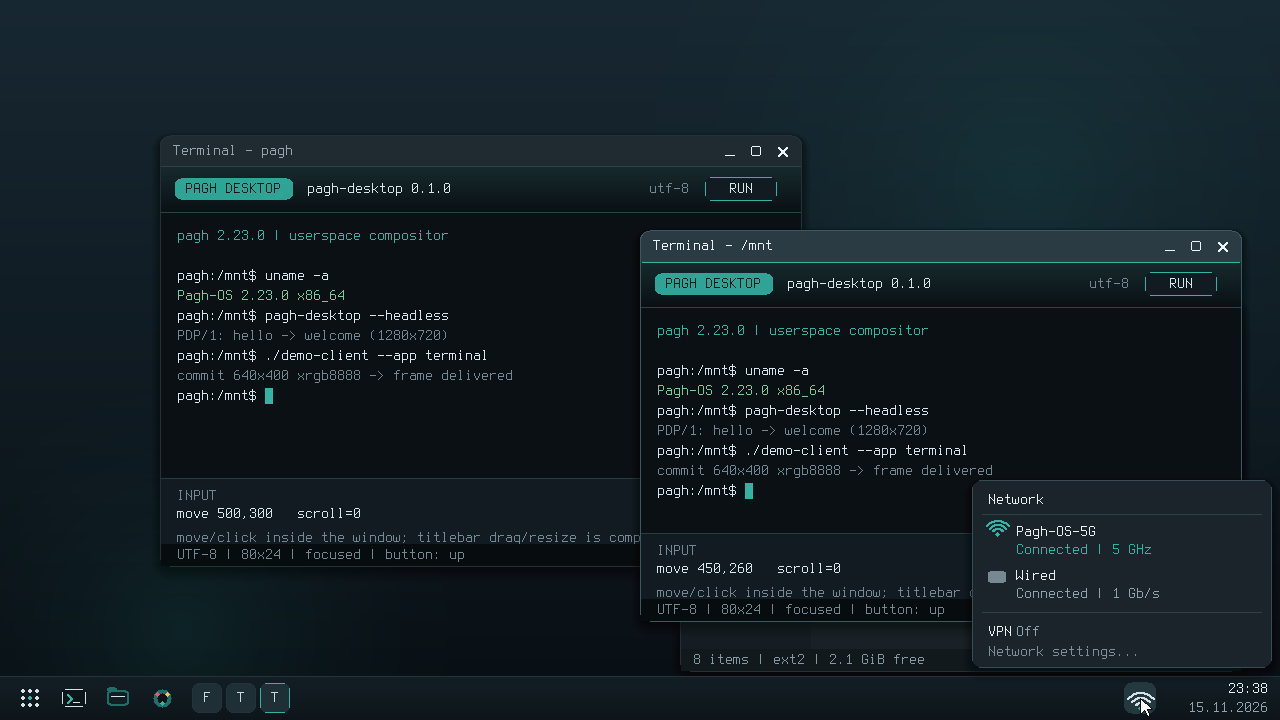
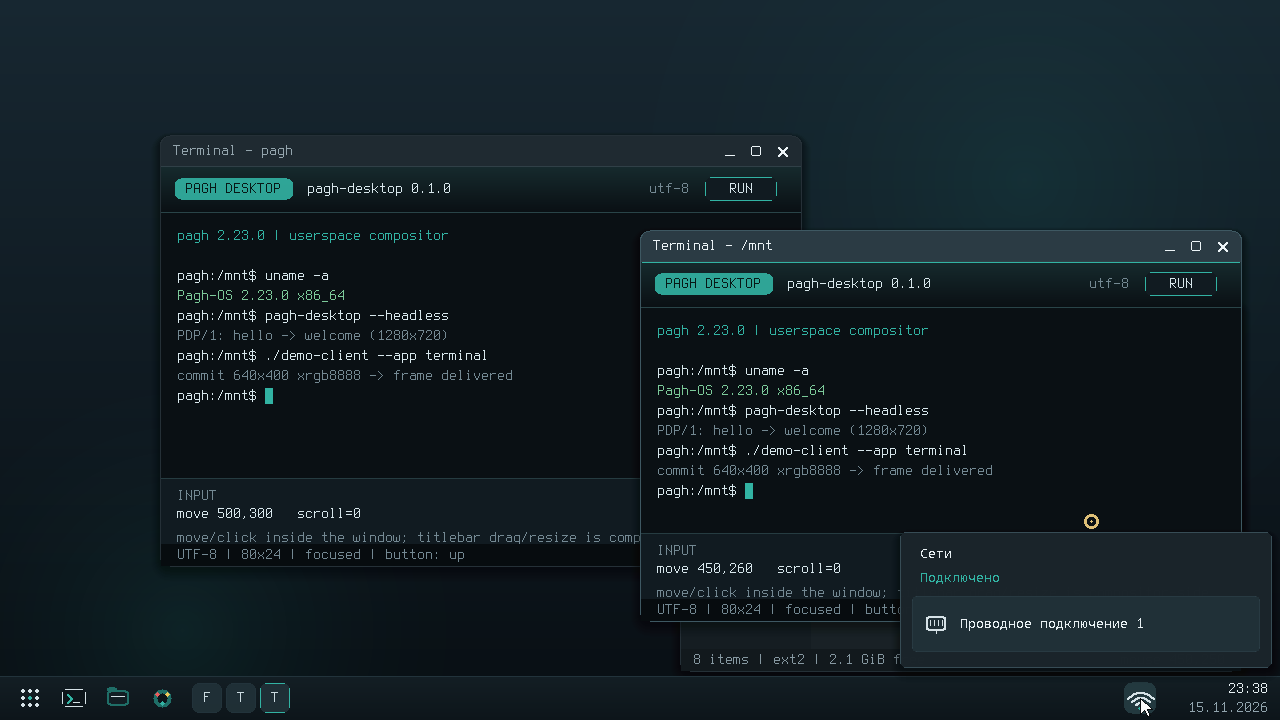
desktop: match the network flyout to the Win11 «Сети» reference
Старый флайаут рисовал выдуманную сеть: Pagh-OS-5G, «5 GHz», VPN/Off,
«Connected | 1 Gb/s» и «Network settings…». Ни одного из этих значений
ядро userspace не отдаёт, поэтому флайаут врал о состоянии машины.

Теперь показывается только то, что композитор действительно знает:
`Panel::network_online` — строка «Подключено»/«Отключено» и карточка
проводного подключения. IP и скорости не рисуются, пока ядро не отдаст
/proc/net/dev и SIOCGIFADDR/netlink; кнопки «Отключить» и chevron нет,
потому что в ядре нет пути управления линком (нет SIOCSIFFLAGS/netlink) —
нерабочая кнопка хуже её отсутствия.

Геометрия по референсу: ширина 372 px, скругление 6 px (календарь и меню
сохраняют 10 px), флайаут прижат к краю экрана и прилегает к панели с
зазором 8 px, снизу компактно (136 px). Строки русские — кириллические
глифы в 8×16-шрифте уже есть.

Тесты: unit — геометрия и отсутствие действия по клику в карточке;
headless-рендер — PNG online/offline в .cache/netfly и проверки пикселей
(акцент статуса, подложка карточки, приглушение при offline).

Changed region(s): [[0.6875, 0.7944, 0.875, 0.9167], [0.75, 0.7028, 0.9688, 0.7639], [0.9688, 0.6722, 1.0, 0.7333]]

diff --git a/rust-apps/pagh-desktop/src/compositor.rs b/rust-apps/pagh-desktop/src/compositor.rs
@@ -123,6 +123,17 @@ pub struct Flyout {
     pub rect: Rect,
 }
 
+/// Ширина сетевого флайаута: референс Win11 «Сети» — заметно шире меню календаря.
+const NETWORK_FLYOUT_WIDTH: i32 = 372;
+/// Высота сетевого флайаута: заголовок, статус и одна карточка подключения.
+const NETWORK_FLYOUT_HEIGHT: i32 = 136;
+/// Зазор между флайаутом, панелью и краем экрана.
+const FLYOUT_GAP: i32 = 8;
+/// Скругление сетевого флайаута: 6 px, компактнее меню и календаря.
+const NETWORK_FLYOUT_RADIUS: i32 = 6;
+/// Скругление меню/календаря — прежний вид, сетевой флайаут его не наследует.
+const MENU_RADIUS: i32 = 10;
+
 /// Ошибки операций с окнами.
 #[derive(Clone, Debug, PartialEq, Eq)]
 pub enum WindowError {
@@ -890,9 +901,15 @@ impl Compositor {
         let panel_top = panel::panel_rect(self.screen).y;
         match kind {
             FlyoutKind::Network => {
-                let network = panel::network_rect(self.screen);
+                // Правое ребро прижато к краю экрана, как у Win11: флайаут растёт
+                // влево от области уведомлений и прилегает к панели с зазором 8 px.
                 clamp_flyout(
-                    Rect::new(network.x - 60, panel_top - 188 - 8, 300, 188),
+                    Rect::new(
+                        self.screen.right() - FLYOUT_GAP - NETWORK_FLYOUT_WIDTH,
+                        panel_top - NETWORK_FLYOUT_HEIGHT - FLYOUT_GAP,
+                        NETWORK_FLYOUT_WIDTH,
+                        NETWORK_FLYOUT_HEIGHT,
+                    ),
                     self.screen,
                 )
             }
@@ -1845,73 +1862,79 @@ impl Compositor {
     }
 
     fn paint_flyout(&self, canvas: &mut Canvas, flyout: Flyout) {
-        canvas.shadow(flyout.rect, 10, 9, 18);
-        canvas.fill_rounded_rect(flyout.rect, 10, self.theme.menu_bg, 252);
-        canvas.stroke_rounded_rect(flyout.rect, 10, self.theme.menu_border, 255);
+        // У сетевого флайаута углы компактнее (референс 4–6 px), календарь
+        // сохраняет прежнее скругление меню.
+        let radius = match flyout.kind {
+            FlyoutKind::Network => NETWORK_FLYOUT_RADIUS,
+            FlyoutKind::Calendar => MENU_RADIUS,
+        };
+        canvas.shadow(flyout.rect, radius, 9, 18);
+        canvas.fill_rounded_rect(flyout.rect, radius, self.theme.menu_bg, 252);
+        canvas.stroke_rounded_rect(flyout.rect, radius, self.theme.menu_border, 255);
         match flyout.kind {
             FlyoutKind::Network => self.paint_network_flyout(canvas, flyout.rect),
             FlyoutKind::Calendar => self.paint_calendar_flyout(canvas, flyout.rect),
         }
     }
 
+    /// Сетевой флайаут: заголовок, честный статус связи и карточка подключения.
+    ///
+    /// Композитор знает о сети ровно одно поле — [`Panel::network_online`].
+    /// Ядро пока не отдаёт userspace ни имени интерфейса, ни IP, ни счётчиков
+    /// (`/proc/net/dev`, `SIOCGIFADDR`/netlink отсутствуют), поэтому IP и
+    /// скорости здесь не рисуются: выдуманные значения были бы обманом. По той
+    /// же причине нет кнопки «Отключить» и chevron — в ядре нет пути управления
+    /// линком (нет `SIOCSIFFLAGS`/netlink), а нерабочая кнопка хуже её
+    /// отсутствия. Когда источник данных появится, сюда добавятся строки IP,
+    /// скоростей и действий без переделки геометрии.
     fn paint_network_flyout(&self, canvas: &mut Canvas, rect: Rect) {
-        let x = rect.x + 16;
-        canvas.text(x, rect.y + 12, 1, self.theme.menu_text, "Network");
-        canvas.hline(
-            rect.x + 10,
-            rect.right() - 10,
-            rect.y + 34,
-            self.theme.separator,
-        );
-        let status = if self.panel.network_online {
-            "Connected | 5 GHz"
+        let x = rect.x + 20;
+        let online = self.panel.network_online;
+
+        canvas.text(x, rect.y + 14, 1, self.theme.menu_text, "Сети");
+
+        let status = if online {
+            "Подключено"
         } else {
-            "Disconnected"
+            "Отключено"
         };
-        let status_color = if self.panel.network_online {
+        let status_color = if online {
             self.theme.accent
+        } else {
+            self.theme.menu_text_dim
+        };
+        canvas.text(x, rect.y + 38, 1, status_color, status);
+
+        // Карточка подключения: подложка, проводная иконка и имя подключения.
+        // Настоящего имени интерфейса у композитора нет, поэтому подпись
+        // нейтральная («Проводное подключение 1» из референса), а не выдуманный
+        // SSID или модель адаптера.
+        let card = Rect::new(rect.x + 12, rect.y + 64, rect.w - 24, 56);
+        canvas.fill_rounded_rect(card, 4, self.theme.chip_bg, 255);
+        canvas.stroke_rounded_rect(card, 4, self.theme.menu_border, 90);
+
+        let icon_color = if online {
+            self.theme.panel_icon
         } else {
             self.theme.panel_icon_dim
         };
-        // Wi-Fi иконка.
-        let icon_center = Point::new(x + 9, rect.y + 54);
-        canvas.fill_circle(icon_center, 2, status_color, 255);
-        for radius in [6, 10, 14] {
-            canvas.arc(icon_center, radius, 218.0, 322.0, status_color, 2);
-        }
-        canvas.text(x + 28, rect.y + 44, 1, self.theme.menu_text, "Pagh-OS-5G");
-        canvas.text(x + 28, rect.y + 62, 1, status_color, status);
-
-        let wired_y = rect.y + 88;
-        canvas.fill_rounded_rect(
-            Rect::new(x, wired_y + 3, 18, 12),
-            2,
-            self.theme.panel_icon_dim,
-            255,
+        draw_wired_icon(
+            canvas,
+            Point::new(card.x + 24, card.center().y),
+            icon_color,
+            self.theme.chip_bg,
         );
-        canvas.text(x + 28, wired_y, 1, self.theme.menu_text, "Wired");
+        let label_color = if online {
+            self.theme.menu_text
+        } else {
+            self.theme.menu_text_dim
+        };
         canvas.text(
-            x + 28,
-            wired_y + 18,
+            card.x + 48,
+            card.center().y - 8,
             1,
-            self.theme.panel_text_dim,
-            "Connected | 1 Gb/s",
-        );
-
-        canvas.hline(
-            rect.x + 10,
-            rect.right() - 10,
-            rect.y + 132,
-            self.theme.separator,
-        );
-        canvas.text(x, rect.y + 144, 1, self.theme.menu_text, "VPN");
-        canvas.text(x + 28, rect.y + 144, 1, self.theme.panel_text_dim, "Off");
-        canvas.text(
-            x,
-            rect.bottom() - 24,
-            1,
-            self.theme.menu_text_dim,
-            "Network settings...",
+            label_color,
+            "Проводное подключение 1",
         );
     }
 
@@ -1982,6 +2005,27 @@ impl Compositor {
             "Sunday, 15 November 2026",
         );
     }
+}
+
+/// Проводная сеть: порт с контактами и кабелем — иконка карточки подключения.
+///
+/// `background` — цвет подложки карточки: им вырезается внутренность рамки
+/// порта, поэтому иконка остаётся контурной на любой поверхности.
+fn draw_wired_icon(
+    canvas: &mut Canvas,
+    center: Point,
+    color: color::Color,
+    background: color::Color,
+) {
+    let shell = Rect::new(center.x - 10, center.y - 8, 20, 15);
+    canvas.fill_rounded_rect(shell, 2, color, 255);
+    canvas.fill_rounded_rect(shell.inset(2), 1, background, 255);
+    // Четыре контакта разъёма.
+    for dx in [-6, -2, 2, 6] {
+        canvas.vline(center.x + dx, shell.y + 4, shell.y + 10, color);
+    }
+    // Кабель уходит вниз от корпуса.
+    canvas.vline(center.x, shell.bottom(), shell.bottom() + 3, color);
 }
 
 fn copy_shm_rect(surface: &mut Surface, view: &crate::shm::ShmView<'_>, area: Rect) {
@@ -2295,6 +2339,53 @@ mod tests {
         compositor.pointer_button(MouseButton::Left, true);
         compositor.pointer_button(MouseButton::Left, false);
         assert!(compositor.flyout().is_none());
+    }
+
+    #[test]
+    fn network_flyout_has_reference_geometry() {
+        let mut compositor = compositor();
+        let network = panel::network_rect(compositor.screen()).center();
+        compositor.pointer_motion(network);
+        compositor.pointer_button(MouseButton::Left, true);
+        compositor.pointer_button(MouseButton::Left, false);
+        let flyout = compositor.flyout().expect("флайаут открыт");
+        let screen = compositor.screen();
+        let panel_top = panel::panel_rect(screen).y;
+        assert_eq!(flyout.rect.w, NETWORK_FLYOUT_WIDTH);
+        assert_eq!(flyout.rect.right(), screen.right() - FLYOUT_GAP);
+        assert_eq!(flyout.rect.bottom(), panel_top - FLYOUT_GAP);
+        assert!(
+            flyout.rect.h <= 160,
+            "низ флайаута должен быть компактным: {}",
+            flyout.rect.h
+        );
+        assert!(flyout.rect.x >= 0);
+    }
+
+    #[test]
+    fn network_flyout_offers_no_fake_disconnect_action() {
+        // Клик внутри карточки не запускает действие: реального пути управления
+        // линком в ядре нет, поэтому «Отключить» не рисуется и не обрабатывается.
+        let mut compositor = compositor();
+        let network = panel::network_rect(compositor.screen()).center();
+        compositor.pointer_motion(network);
+        compositor.pointer_button(MouseButton::Left, true);
+        compositor.pointer_button(MouseButton::Left, false);
+        let rect = compositor.flyout().expect("флайаут открыт").rect;
+        let card = Point::new(rect.x + 12 + 174, rect.y + 64 + 28);
+        compositor.pointer_motion(card);
+        let events = compositor.pointer_button(MouseButton::Left, true);
+        let events = events
+            .into_iter()
+            .chain(compositor.pointer_button(MouseButton::Left, false));
+        assert!(
+            events.count() == 0,
+            "карточка не должна выполнять несуществующее действие"
+        );
+        assert!(
+            compositor.flyout().is_some(),
+            "клик по карточке не закрывает флайаут"
+        );
     }
 
     #[test]

diff --git a/rust-apps/pagh-desktop/tests/network_flyout_screenshots.rs b/rust-apps/pagh-desktop/tests/network_flyout_screenshots.rs
@@ -14,7 +14,9 @@ fn open_network_flyout(compositor: &mut Compositor) -> Rect {
     compositor.pointer_motion(center);
     compositor.pointer_button(MouseButton::Left, true);
     compositor.pointer_button(MouseButton::Left, false);
-    let flyout = compositor.flyout().expect("клик по иконке сети открывает флайаут");
+    let flyout = compositor
+        .flyout()
+        .expect("клик по иконке сети открывает флайаут");
     assert_eq!(flyout.kind, pagh_desktop::compositor::FlyoutKind::Network);
     flyout.rect
 }
@@ -61,6 +63,14 @@ fn network_flyout_online_offline_render() {
     png::write_png(dir.join("flyout-online.png"), compositor.frame()).expect("PNG online");
     let online = compositor.frame().snapshot();
 
+    // Карточка подключения — подложка `chip_bg` (348×56 за вычетом иконки/текста).
+    let card_pixels = count_color(&compositor, rect, compositor.theme().chip_bg);
+    assert!(
+        card_pixels > 10_000,
+        "карточка подключения не нарисована: {card_pixels}"
+    );
+    let online_text = count_color(&compositor, rect, compositor.theme().menu_text);
+
     // «Подключено» — акцентная строка статуса; фейковых элементов быть не должно,
     // но акцент обязан присутствовать, иначе статус не отрисован.
     let accent_pixels = count_color(&compositor, rect, compositor.theme().accent);
@@ -76,6 +86,11 @@ fn network_flyout_online_offline_render() {
 
     let offline_accent = count_color(&compositor, rect, compositor.theme().accent);
     assert_eq!(offline_accent, 0, "в отключённом состоянии акцент не нужен");
+    let offline_text = count_color(&compositor, rect, compositor.theme().menu_text);
+    assert!(
+        offline_text < online_text,
+        "отключение должно приглушать подпись: {online_text} -> {offline_text}"
+    );
     assert!(
         diff(&online, &offline) > 40,
         "состояния online/offline визуально не различаются"
@@ -88,5 +103,9 @@ fn network_flyout_online_offline_render() {
             colors.insert(compositor.frame().get(x, y));
         }
     }
-    assert!(colors.len() >= 4, "флайаут почти одноцветный: {}", colors.len());
+    assert!(
+        colors.len() >= 4,
+        "флайаут почти одноцветный: {}",
+        colors.len()
+    );
 }

diff --git a/rust-apps/pagh-desktop/src/scenario.rs b/rust-apps/pagh-desktop/src/scenario.rs
@@ -184,7 +184,11 @@ pub fn run(out_dir: impl AsRef<Path>) -> io::Result<ScenarioReport> {
         "06-network-flyout.png",
         &mut screenshots,
     )?;
-    notes.push("клик по иконке сети: Wi-Fi flyout с Pagh-OS-5G / Wired / VPN".into());
+    notes.push(
+        "клик по иконке сети: флайаут «Сети» — статус и карточка проводного подключения; \
+         IP и скорости не рисуются, пока ядро их не отдаёт"
+            .into(),
+    );
 
     // Calendar flyout.
     click(&mut compositor, Point::new(300, 600));
